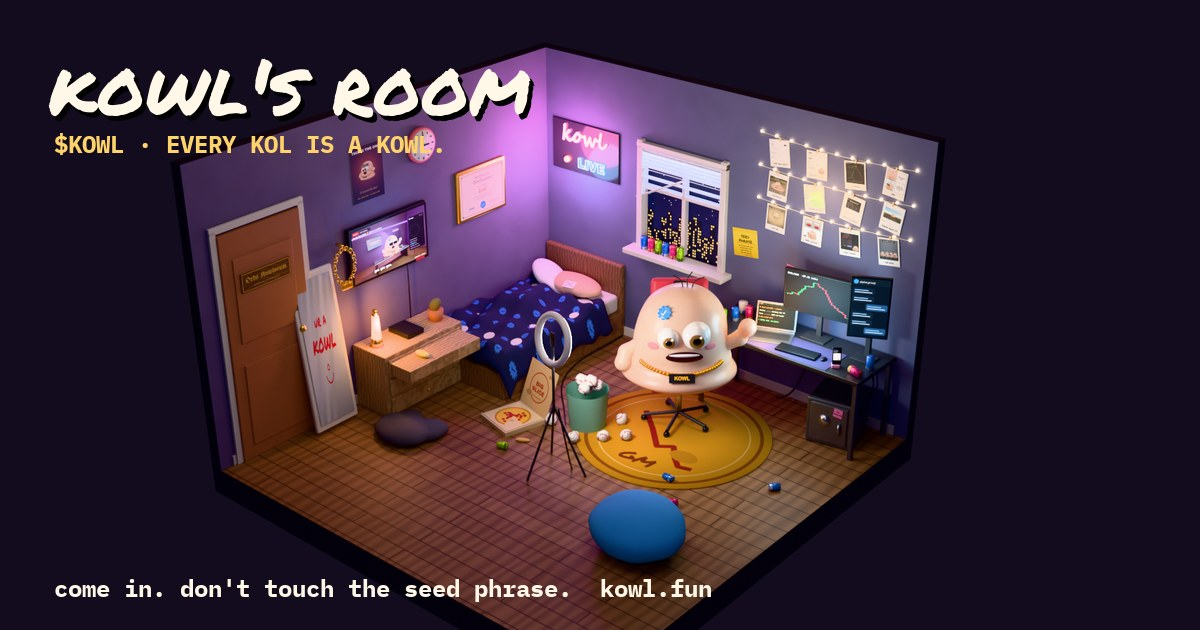
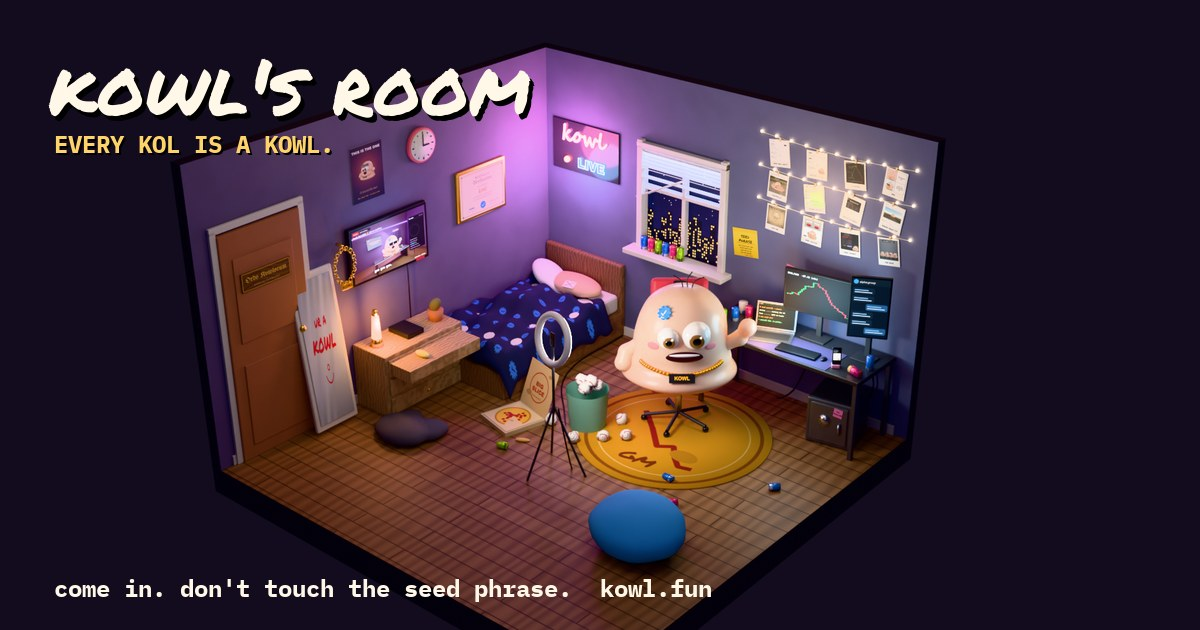
kowl's room: coin-free share card, metadata and screens before launch
- og.jpg, <title>, og/twitter tags, JSON-LD and meta description no longer carry the $KOWL cashtag.
- The laptop screen (live and in the fallback stills) says 'payroll did. in public.' instead of the cashtag line.
- Cache-bust bumped to v=6.

Changed region(s): [[0.0308, 0.2111, 0.37, 0.2714]]

diff --git a/index.html b/index.html
@@ -3,8 +3,8 @@
 <head>
 <meta charset="utf-8">
 <meta name="viewport" content="width=device-width, initial-scale=1, viewport-fit=cover">
-<title>kowl's room ($KOWL) · every KOL is a kowl. kowls get paid in public.</title>
-<meta name="description" content="welcome to kowl's room: the den of the dumbest KOL alive. click things. the laptop runs kowl payroll (make $KOWL memes, earn points, 100% of creator fees split every 15 minutes), the phone has today's 3:00pm call, the mirror makes your kowl pfp, the TV plays kowl's AMA.">
+<title>kowl's room · every KOL is a kowl. kowls get paid in public.</title>
+<meta name="description" content="welcome to kowl's room: the den of the dumbest KOL alive. click things. the laptop runs kowl payroll (make kowl memes, earn points, 100% of creator fees split every 15 minutes), the phone has today's 3:00pm call, the mirror makes your kowl pfp, the TV plays kowl's AMA.">
 <meta name="theme-color" content="#0c0814">
 <link rel="icon" href="favicon.ico" sizes="any">
 <link rel="icon" type="image/png" sizes="32x32" href="img/favicon-32.png">
@@ -13,12 +13,12 @@
 <meta property="og:type" content="website">
 <meta property="og:url" content="https://kowl.fun/">
 <meta property="og:site_name" content="kowl's room">
-<meta property="og:title" content="kowl's room ($KOWL) · every KOL is a kowl.">
+<meta property="og:title" content="kowl's room · every KOL is a kowl.">
 <meta property="og:description" content="come in. don't touch the seed phrase. KOLs get paid in secret, kowls get paid in public 🫠">
 <meta property="og:image" content="https://kowl.fun/og.jpg">
 <meta name="twitter:card" content="summary_large_image">
 <meta name="twitter:site" content="@KowlFun">
-<meta name="twitter:title" content="kowl's room ($KOWL) · every KOL is a kowl.">
+<meta name="twitter:title" content="kowl's room · every KOL is a kowl.">
 <meta name="twitter:description" content="come in. don't touch the seed phrase. 🫠">
 <meta name="twitter:image" content="https://kowl.fun/og.jpg">
 <link rel="preload" href="fonts/permanent-marker.woff2" as="font" type="font/woff2" crossorigin>
@@ -31,7 +31,7 @@
 <link rel="preload" href="models/kowl.glb" as="fetch" crossorigin>
 <link rel="preconnect" href="https://cdn.jsdelivr.net" crossorigin>
 <link rel="preconnect" href="https://api.kowl.fun" crossorigin>
-<link rel="stylesheet" href="room.css?v=5">
+<link rel="stylesheet" href="room.css?v=6">
 <script type="importmap">
 {
   "imports": {
@@ -44,7 +44,7 @@
 <link rel="modulepreload" href="https://cdn.jsdelivr.net/npm/three@0.187.0/build/three.module.min.js" crossorigin>
 <link rel="modulepreload" href="https://cdn.jsdelivr.net/npm/three@0.187.0/build/three.core.min.js" crossorigin>
 <script type="application/ld+json">
-{"@context":"https://schema.org","@type":"WebSite","name":"kowl's room ($KOWL)","url":"https://kowl.fun/","description":"every KOL is a kowl. kowl payroll pays $KOWL meme makers and disclosed bagworkers in public, every 15 minutes.","sameAs":["https://x.com/KowlFun"]}
+{"@context":"https://schema.org","@type":"WebSite","name":"kowl's room","url":"https://kowl.fun/","description":"every KOL is a kowl. kowl payroll pays meme makers and disclosed bagworkers in public, every 15 minutes.","sameAs":["https://x.com/KowlFun"]}
 </script>
 </head>
 <body>
@@ -657,8 +657,8 @@
 <div class="melt-layer" id="meltLayer" aria-hidden="true"></div>
 <noscript><p class="noscript">kowl's room needs JavaScript to open the door. everything is also on <a href="https://x.com/KowlFun">X @KowlFun</a>.</p></noscript>
 
-<script src="sfx.js?v=5" defer></script>
-<script src="app.js?v=5" defer></script>
-<script src="payroll.js?v=5" defer></script>
+<script src="sfx.js?v=6" defer></script>
+<script src="app.js?v=6" defer></script>
+<script src="payroll.js?v=6" defer></script>
 </body>
 </html>

diff --git a/room.js b/room.js
@@ -276,11 +276,11 @@ export async function start(opts) {
       s && s.status === "live" ? `pool ........... ${(+s.pool_sol || 0).toFixed(3)} SOL` : "pool ........... opens at launch",
       `fees to kowls .. 100%`,
       "$ who paid you?",
-      "> $KOWL did. it's on-chain.",
+      "> payroll did. in public.",
     ];
     g.font = `500 17px ${MONO}`;
     lines.forEach((l, i) => { g.fillStyle = l.startsWith("$") ? "#ffb347" : l.startsWith(">") ? "#7dff9b" : "#d9e6c4"; g.fillText(l, 16, 58 + i * 30); });
-    if (Math.floor(t * 2) % 2) { g.fillStyle = "#ffb347"; g.fillRect(16 + g.measureText("> $KOWL did. it's on-chain.").width + 6, 58 + 7 * 30 - 15, 10, 18); }
+    if (Math.floor(t * 2) % 2) { g.fillStyle = "#ffb347"; g.fillRect(16 + g.measureText("> payroll did. in public.").width + 6, 58 + 7 * 30 - 15, 10, 18); }
     g.fillStyle = "rgba(255,180,70,.06)"; for (let y = 0; y < H; y += 3) g.fillRect(0, y, W, 1);
     tex.needsUpdate = true;
   }

diff --git a/app.js b/app.js
@@ -507,7 +507,7 @@ async function bootRoom() {
   const atlasUrl = small || weak ? "room/atlas-2k.webp" : "room/atlas-4k.webp";
   const guard = setTimeout(() => { if (!R.room) startStill("took too long"); }, 25000);
   try {
-    const m = await import("./room.js?v=5");
+    const m = await import("./room.js?v=6");
     if (R.mode === "still") return;
     const room = await m.start({
       canvas: $("#room3d"), mobile, reduced: REDUCED, atlasUrl,
